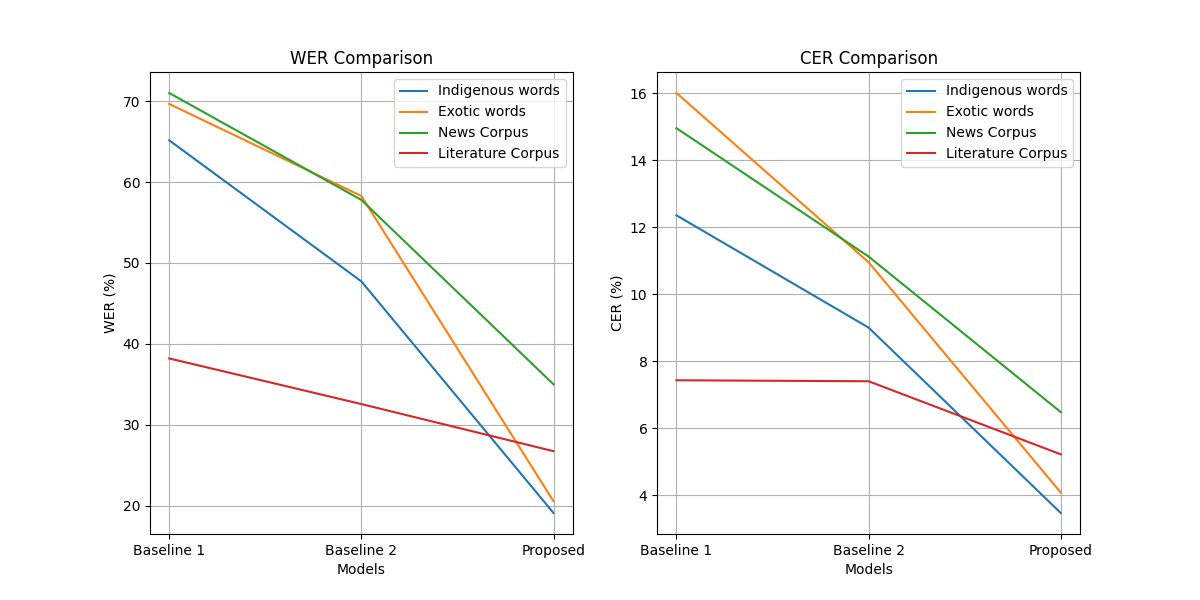
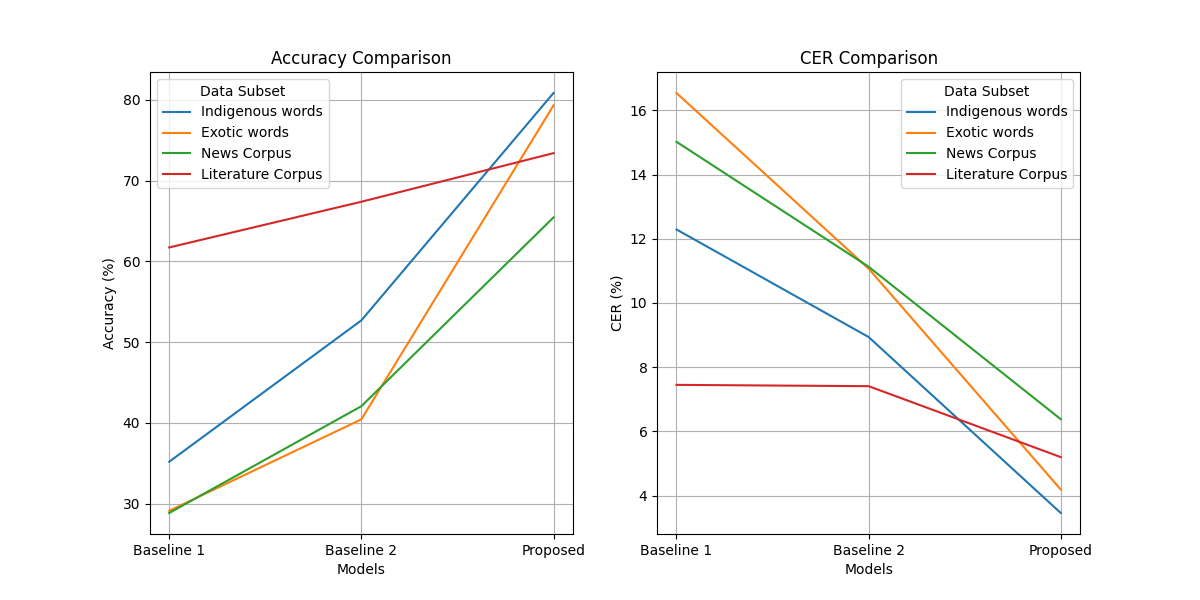
Changed plotting to accuracy and CER

diff --git a/replicate_paper.py b/replicate_paper.py
@@ -26,20 +26,22 @@ def evaluate(data_subdir_dict: Dict[str, str]):
 
 
 def plot(data_subdir_dict: Dict[str, str], result_files: Dict[str, str]):
-    metrics = ["WER", "CER"]
+    metrics = ["Accuracy", "CER"]
     fig, axs = plt.subplots(1, 2, figsize=(12, 6))
     for i, metric in enumerate(metrics):
         data_points = {data_type: [] for data_type in data_subdir_dict}
         for data_type, transcribed_file in data_subdir_dict.items():
-            wer_values, cer_values = [], []
+            w_values, c_values = [], []
             for result_file in result_files.values():
                 result_file = Path(transcribed_file) / result_file
                 result_file_lines = (
                     result_file.read_text(encoding="utf-8").strip().split("\n")
                 )
-                wer_values.append(float(result_file_lines[0]))
-                cer_values.append(float(result_file_lines[1]))
-            data_points[data_type].extend(wer_values if metric == "WER" else cer_values)
+                w_values.append(100 - float(result_file_lines[0]))
+                c_values.append(float(result_file_lines[1]))
+            data_points[data_type].extend(
+                w_values if metric == "Accuracy" else c_values
+            )
 
         # Plot on the corresponding subplot
         ax = axs[i]
@@ -49,7 +51,7 @@ def plot(data_subdir_dict: Dict[str, str], result_files: Dict[str, str]):
         ax.set_xlabel("Models")
         ax.set_ylabel(f"{metric} (%)")
         ax.set_title(f"{metric} Comparison")
-        ax.legend()
+        ax.legend(title="Data Subset")
         ax.grid(True)
         ax.set_xticks([0, 1, 2])
         ax.set_xticklabels(result_files.keys())

diff --git a/utils.py b/utils.py
@@ -93,8 +93,8 @@ def prepare_corpus_transcription():
     )
     count_ind, count_exo, count_ne, count_hy, count_rem = 0, 0, 0, 0, 0
     words_ind, words_exo = set(), set()
-    for idx, line in enumerate(tqdm(original, desc="Extracting...")):
-        # print(f"{idx=} | {line=}")
+    for i, line in enumerate(tqdm(original, desc="Extracting...")):
+        # print(f"{i+1=} | {line=}")
         word_bn, _, dist_id = line.split("\t")
         dist_id = int(dist_id)
         if dist_id == 1:
